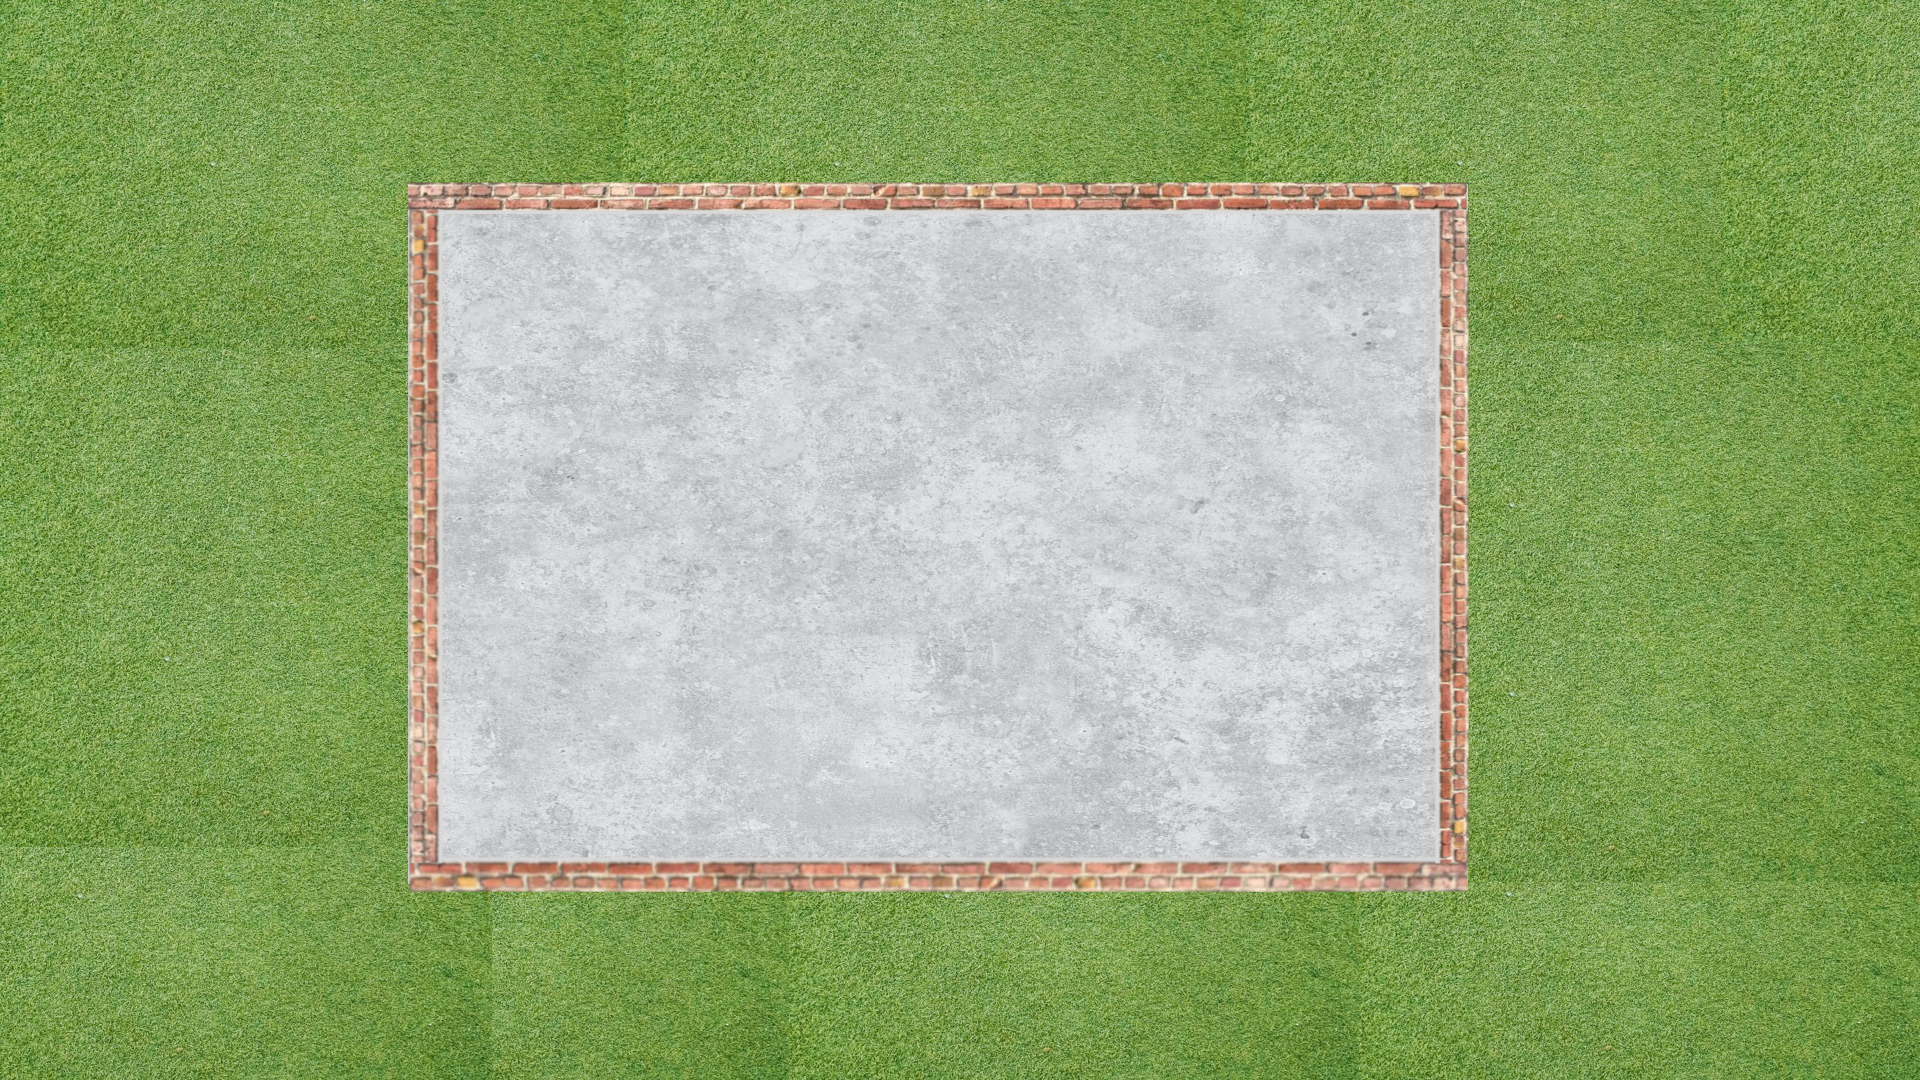
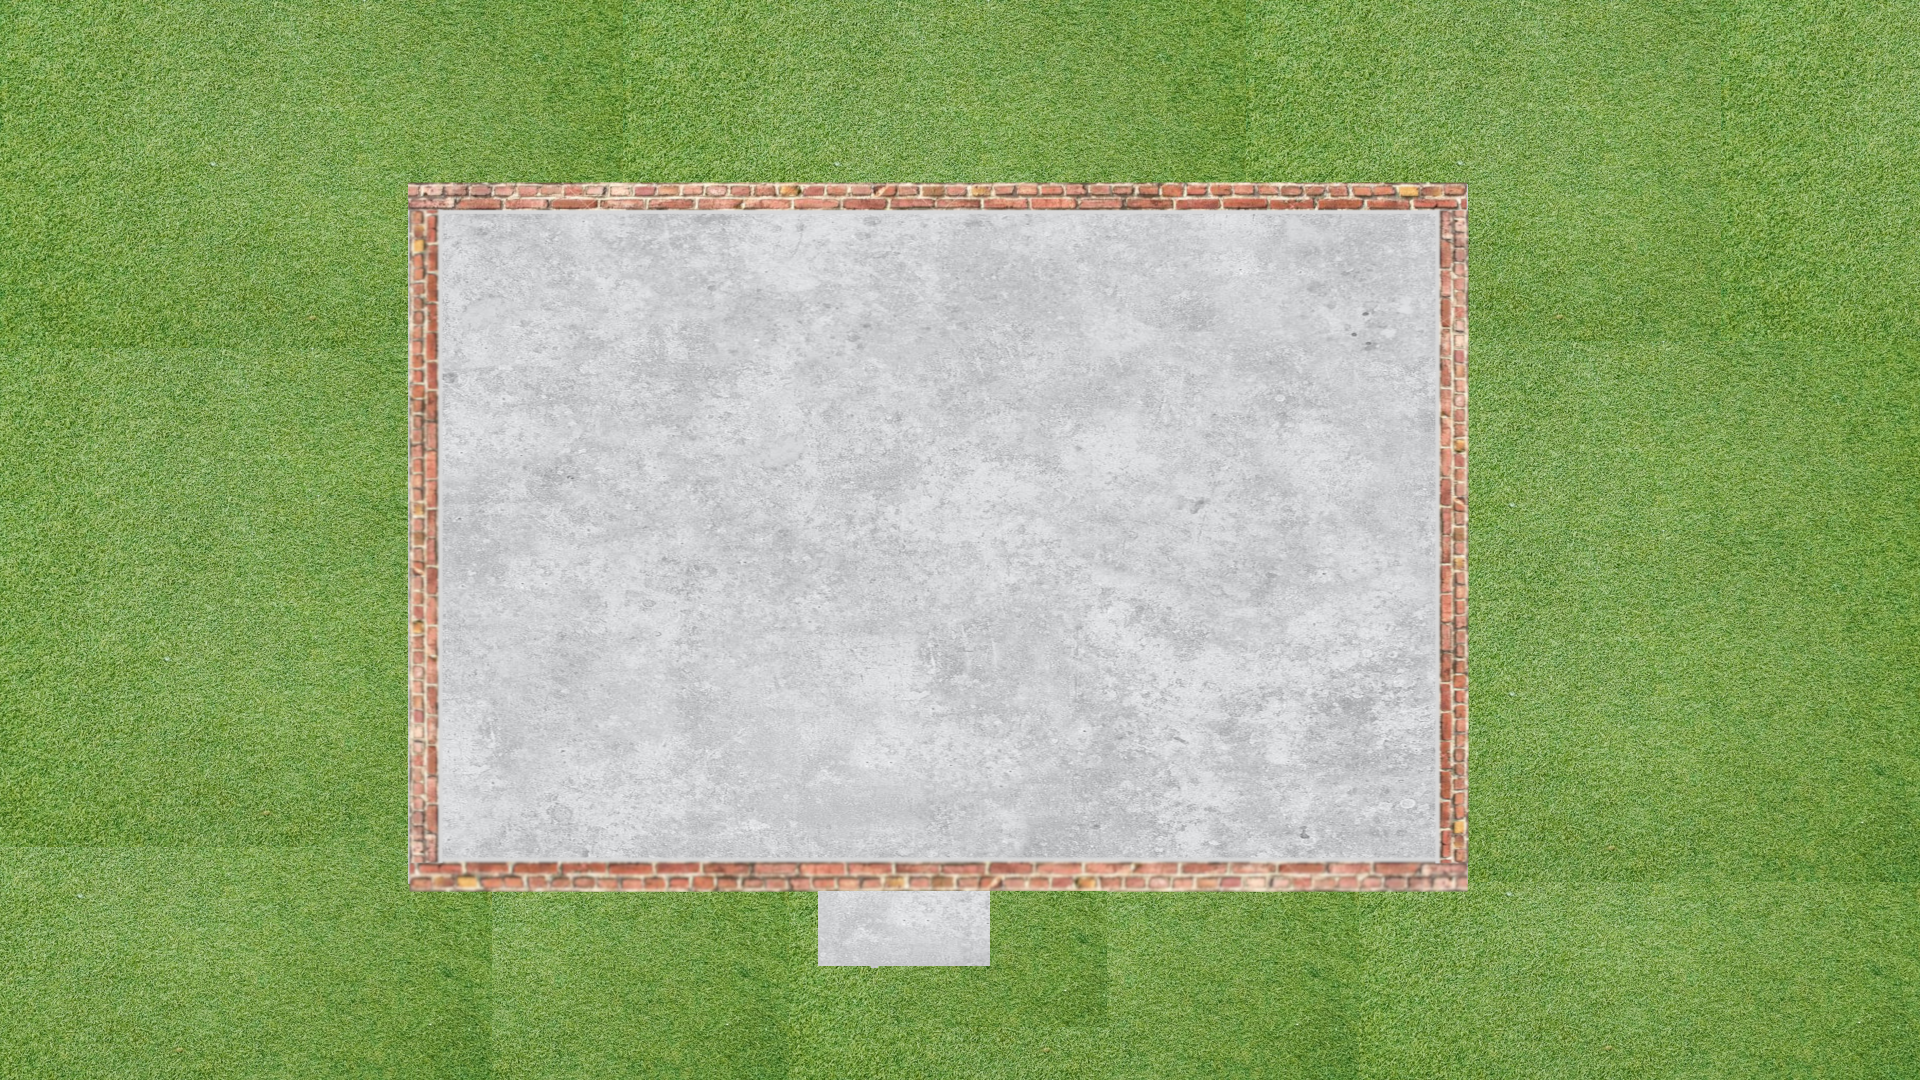
MyGame Project for PROZ ver. 0.4.5 added garage with collisions

Changed region(s): [[0.4062, 0.825, 0.5938, 0.9472]]

diff --git a/src/controllers/GameController.java b/src/controllers/GameController.java
@@ -18,6 +18,7 @@ import models.Steerable;
 import org.apache.log4j.Logger;
 import org.apache.log4j.xml.DOMConfigurator;
 
+import java.awt.*;
 import java.io.IOException;
 import java.util.Timer;
 import java.util.TimerTask;
@@ -36,6 +37,10 @@ public class GameController {
     private Pane newGamePane;
     @FXML
     private ImageView playerTransform;
+//    @FXML
+//    private Rectangle inDoorBox;
+    @FXML
+    ImageView roof;
     @FXML
     public void initialize() {
         DOMConfigurator.configure("log4j2.xml");
@@ -47,6 +52,9 @@ public class GameController {
         colliderContainer.getChildren().add(mainEntrance.collisionBox);
         logger.info("mainDoors: "+mainDoors.getX()+" "+mainDoors.getY());
         logger.info("RectDoor: "+mainEntrance.collisionBox.toString());
+        if(roof.contains(object.getX(),object.getY())) {
+            roof.setVisible(false);
+        }
     }
 
     void setViewController(ViewController aViewController) {
@@ -124,7 +132,7 @@ public class GameController {
             }
         });
         int timeStep =  16;
-        timer.schedule(new Renderer(object),0L,timeStep);
+        timer.schedule(new Renderer(object, this),0L,timeStep);
     }
 
     void goOutside()
@@ -135,11 +143,18 @@ public class GameController {
 
 class Renderer extends TimerTask {
     private Steerable object;
-    Renderer(Steerable st) {
+    GameController gameController;
+    Renderer(Steerable st, GameController gc) {
+        gameController =gc;
         object = st;
     }
     @Override
     public void run() {
         object.drawMe();
+        if(gameController.roof.contains(object.getX(),object.getY())) {
+            gameController.roof.setVisible(false);
+        } else {
+            gameController.roof.setVisible(true);
+        }
     }
 }

diff --git a/src/test/DoorsTest.java b/src/test/DoorsTest.java
@@ -1,0 +1,24 @@
+package test;
+
+import javafx.scene.image.Image;
+import javafx.scene.image.ImageView;
+import models.Doors;
+import org.junit.jupiter.api.Test;
+
+
+
+import static org.junit.jupiter.api.Assertions.*;
+
+class DoorsTest {
+
+    @Test
+    void notReachableTest() {
+
+        ImageView door = new ImageView(new Image(this.getClass().getResource("/resources/doors.png").toString()));
+        door.setX(200);
+        door.setY(300);
+        Doors tester = new Doors(door);
+        boolean reachable = tester.isReachable(1000.0,500.0);
+        assertFalse(reachable);
+    }
+}

diff --git a/src/models/Doors.java b/src/models/Doors.java
@@ -1,9 +1,7 @@
 package models;
 
-import javafx.animation.Animation;
 import javafx.animation.KeyFrame;
 import javafx.animation.Timeline;
-import javafx.geometry.Point3D;
 import javafx.scene.image.ImageView;
 import javafx.scene.media.Media;
 import javafx.scene.media.MediaPlayer;
